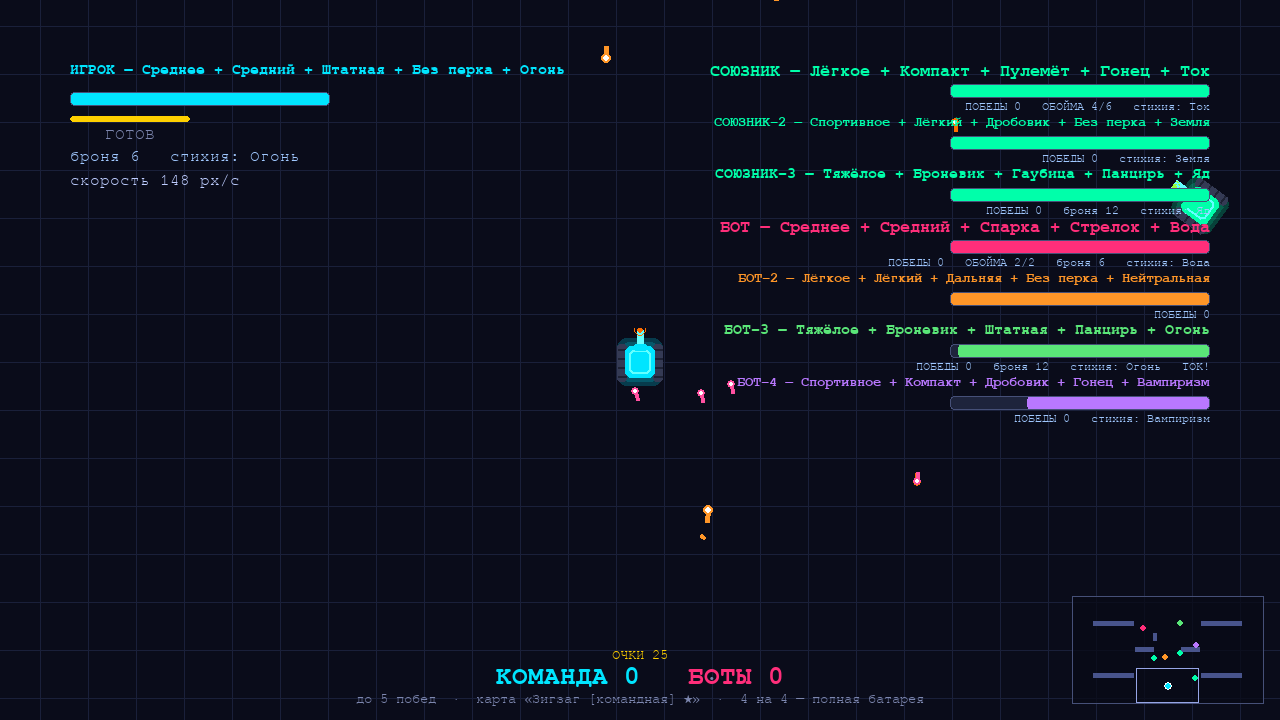
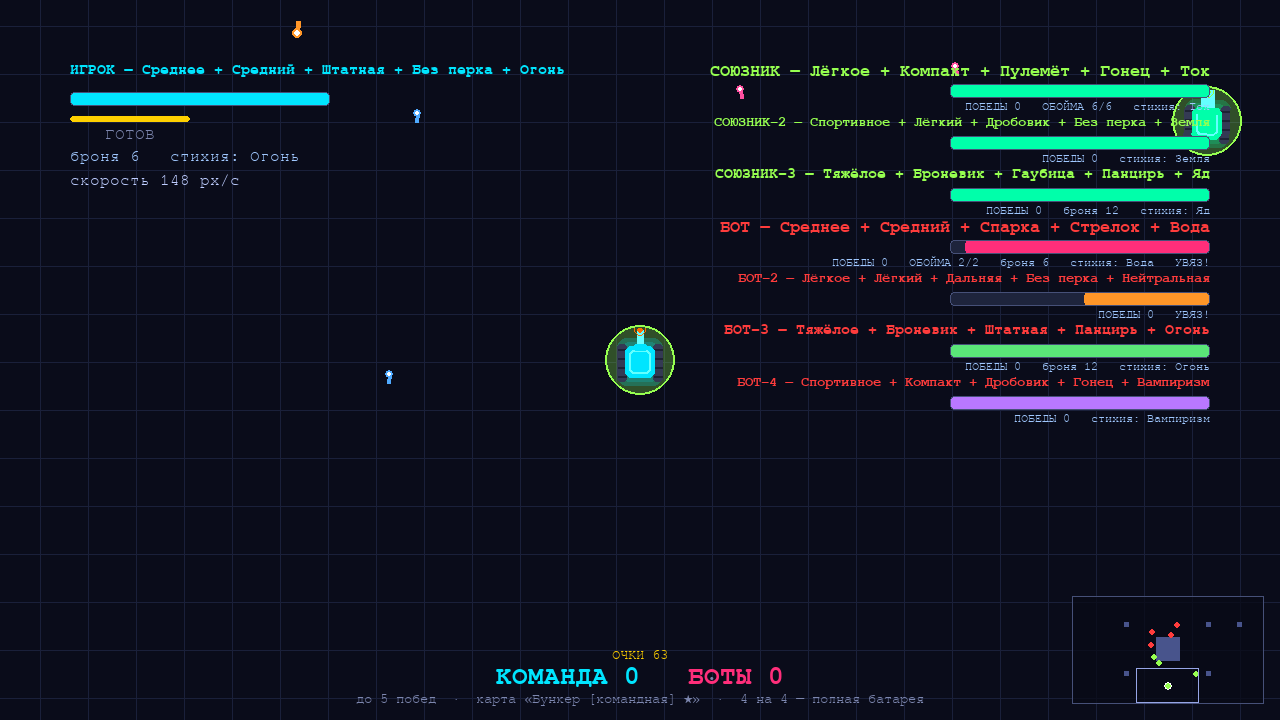
v2.6: ТАЙМЕР ВЫЯСНЕНИЯ 180 СЕКУНД (было 70); КНОПКА «УБИТЬ СРАЗУ» = ЖРЕБИЙ — случайный живой бот сразу забирает раунд, остальные враги взрываются (проверено: за 30 прогонов побеждают все трое); ПОДСВЕТКА КОМАНД в командных боях — враги КРАСНЫМ свечением, союзники (и вы) САЛАТОВЫМ: круг под танком + 

diff --git a/game.py b/game.py
@@ -13,7 +13,7 @@ from settings import (SCREEN_W, SCREEN_H, FPS, TITLE, COL_TEXT, COL_DIM,
                       TANK_RADIUS, BULLET_BOUNCES,
                       SPECTATE_T,
                       ALLY_COLOR, BOSS_COLOR, BOSS_BUILD, BOSS_HP_MULT,
-                      BOSS_SCALE,
+                      BOSS_SCALE, TEAM_FOE_COLOR, TEAM_ALLY_COLOR,
                       BOT_COLORS, BOT_NAMES, MODE_NAMES,
                       BULLET_DAMAGE,
                       POWERUP_INTERVAL, POWERUP_MAX, PU_MINE_DAMAGE,
@@ -772,13 +772,46 @@ class Game:
                           self.arena.h - SCREEN_H)
 
     def _kill_all_foes(self):
-        """Кнопка «УБИТЬ СРАЗУ»: не ждать 70 секунд «выяснения» после вашей
-        смерти — враги дохнут сразу, раунд будет ничьим."""
-        for t in self.foes:
-            if t.alive:
-                t._die(self.effects, self.sounds)
+        """Кнопка «УБИТЬ СРАЗУ» (v2.6): не ждать 180 секунд «выяснения» —
+        ЖРЕБИЙ: случайный живой бот сразу забирает раунд, остальные
+        враги взрываются этим же кадром."""
+        alive = [t for t in self.foes if t.alive]
         self.spectate_t = 0.0
+        if not alive:
+            return
+        lucky = random.choice(alive)
+        for t in alive:
+            if t is not lucky:
+                t._die(self.effects, self.sounds)
         self.sounds.play("explode")
+        # раунд сразу за счастливчиком — как у последнего выжившего
+        self.winner = self.tanks.index(lucky)
+        self.score[self.winner] += 1
+        self.state = "round_end"
+        self.timer = ROUND_PAUSE_T
+        self.sounds.play("round")
+
+    def _team_ring_color(self, t):
+        """v2.6: цвет командной подсветки танка (или None вне команд).
+        Враги — КРАСНЫЙ, союзники (включая вас) — САЛАТОВЫЙ."""
+        if not self.team_mode:
+            return None
+        team = self.tank_team.get(t)
+        if team is None:
+            return None
+        return TEAM_FOE_COLOR if team == 1 else TEAM_ALLY_COLOR
+
+    def _team_pad(self, t):
+        """Светящийся круг под танком (v2.6): враги красным, союзники
+        салатовым. Рисуется ПОД спрайтом, статусы (щит/лёд/огонь) — над."""
+        col = self._team_ring_color(t)
+        if col is None:
+            return None
+        r = int(t.radius + 11)
+        pad = pygame.Surface((r * 2, r * 2), pygame.SRCALPHA)
+        pygame.draw.circle(pad, (col[0], col[1], col[2], 70), (r, r), r)
+        pygame.draw.circle(pad, col, (r, r), r, 2)
+        return pad
 
     # ================= обновление =================
     def update(self, dt):
@@ -1167,6 +1200,11 @@ class Game:
                 b.draw(self.world, ox, oy)
             for t in reversed(self.tanks):   # игрок рисуется поверх ботов
                 if t.alive:
+                    pad = self._team_pad(t)   # v2.6: подсветка команд
+                    if pad is not None:
+                        self.world.blit(
+                            pad, (int(t.x + ox - pad.get_width() / 2),
+                                  int(t.y + oy - pad.get_height() / 2)))
                     t.draw(self.world, ox, oy)
             self.effects.draw(self.world, ox, oy)
             for s in self.smokes:
@@ -1258,7 +1296,7 @@ class Game:
             "Q — стена   E — мина   Лазер + Веер = ЛАЗЕРНЫЙ ВЕЕР!",
             "РЕЖИМЫ: 1вс1 · FFA до 5 · 2НА2 · 3НА3 · 4НА4 · 5НА5 · 2 ПРОТИВ БОССА (F2–F10).",
             "Команды строятся шеренгами. 16 арен, рандом каждый раунд, камера и миникарта.",
-            "После вашей смерти боты до 70 с выясняют победителя — кнопка «УБИТЬ СРАЗУ» не ждёт.",
+            "После вашей смерти боты до 180 с выясняют победителя; кнопка отдаёт раунд случайному боту.",
             "Неуязвимости больше нет. Консоль читера — Ё (`), работает на любой раскладке.",
         ]
         y = 310
@@ -1322,7 +1360,7 @@ class Game:
             "или Enter / T — мышью можно нажать любую кнопку", True, COL_DIM)
         self.screen.blit(img, img.get_rect(center=(SCREEN_W / 2, y + 96)))
         # версия
-        img = get_font(16, bold=False).render("v2.5", True, (60, 66, 95))
+        img = get_font(16, bold=False).render("v2.6", True, (60, 66, 95))
         self.screen.blit(img, (SCREEN_W - 60, SCREEN_H - 34))
 
     # ================= тултипы ангарa =================
@@ -1840,10 +1878,11 @@ class Game:
         pygame.draw.rect(self.screen, color, fill, border_radius=4)
         pygame.draw.rect(self.screen, (70, 80, 120), rect, 1, border_radius=4)
 
-    def _build_label(self, t, who=None):
+    def _build_label(self, t, who=None, color=None):
         """«ИГРОК — шасси + корпус + дуло + перк + стихия» с автоподбором
         размера шрифта: длинная сборка не должна налезать на центральный счёт.
-        Имя можно не передавать — возьмём display_name (СОЮЗНИК, БОСС)."""
+        Имя можно не передавать — возьмём display_name (СОЮЗНИК, БОСС).
+        color (v2.6) перекрашивает строку (командная подсветка HUD)."""
         who = who or t.display_name or "БОТ"
         label = "%s — %s + %s + %s + %s + %s" % (
             who, t.chassis["name"], t.hull["name"], t.weapon["name"],
@@ -1851,7 +1890,7 @@ class Game:
         size = 22
         while size > 13 and get_font(size).size(label)[0] > 500:
             size -= 1
-        return get_font(size).render(label, True, t.color)
+        return get_font(size).render(label, True, color or t.color)
 
     def _status_tags(self, t):
         """Статусы танка строкой (общие для HUD игрока и строк ботов)."""
@@ -1974,7 +2013,9 @@ class Game:
         """Компактная строка танка в HUD (v2.1): имя, HP, победы и статусы.
         v2.2: имя берём из display_name (СОЮЗНИК / БОСС), победы в командах
         считаются по стороне."""
-        img = self._build_label(t, t.display_name or BOT_NAMES[idx])
+        # v2.6: в командах строка танка красится цветом стороны
+        img = self._build_label(t, t.display_name or BOT_NAMES[idx],
+                                color=self._team_ring_color(t))
         self.screen.blit(img, img.get_rect(topright=(SCREEN_W - 70, y)))
         self._hp_bar(SCREEN_W - 330, y + 22, t, right=True)
         tags = self._status_tags(t)
@@ -2045,7 +2086,9 @@ class Game:
             if not t.alive:
                 continue
             cx, cy = int(x0 + t.x * k), int(y0 + t.y * k)
-            pygame.draw.circle(self.screen, t.color, (cx, cy), 3)
+            # v2.6: в командах миникарта красит точки цветом команды
+            col = self._team_ring_color(t) or t.color
+            pygame.draw.circle(self.screen, col, (cx, cy), 3)
             if t is self.player:
                 pygame.draw.circle(self.screen, (255, 255, 255), (cx, cy), 4, 1)
         pygame.draw.rect(self.screen, (150, 165, 230),
@@ -2289,7 +2332,7 @@ class Game:
                 self.spectate_t = float(sec)
                 self._con_say("Окно выяснения после вашей смерти: %d с." % sec)
             else:
-                self._con_say("Формат: ждать 70 / ждать 0")
+                self._con_say("Формат: ждать 180 / ждать 0")
             return
         if parts[0] == "счет":   # ё нормализована в е выше
             if len(parts) > 1 and parts[1].lstrip("-").isdigit():

diff --git a/scripts/smoke_test.py b/scripts/smoke_test.py
@@ -1225,11 +1225,12 @@ def test_map_shuffle():
     check("классические спавны не перекрыты (40 карт)", blocked == 0)
 
 
-# ---------- 3q. ПОСЛЕ СМЕРТИ ИГРОКА v2.5: окно выяснения вместо грейса ----------
+# ---------- 3q. ПОСЛЕ СМЕРТИ ИГРОКА v2.6: окно 180 с + жребий кнопки ----------
 def test_spectate():
-    """v2.5: НЕУЯЗВИМОСТИ НЕТ. После смерти игрока живые боты (2+) в FFA
-    выясняют победителя SPECTATE_T секунд, потом умирают — ничья.
-    Один бот берёт раунд сразу. Кнопка «УБИТЬ СРАЗУ» — не ждать."""
+    """v2.6 (окно было 70 с — стало 180): НЕУЯЗВИМОСТИ НЕТ. После смерти
+    игрока живые боты (2+) в FFA выясняют победителя SPECTATE_T секунд,
+    потом умирают — ничья. Один бот берёт раунд сразу. Кнопка
+    «УБИТЬ СРАЗУ» — ЖРЕБИЙ: случайный живой бот забирает раунд."""
     from game import Game
     from settings import SPECTATE_T
 
@@ -1271,7 +1272,7 @@ def test_spectate():
     check("1вс1: бот-одиночка берёт раунд сразу после смерти игрока",
           g1.state == "round_end" and g1.winner == 1 and g1.score[1] == 1)
 
-    # --- FFA на 3: игрок умер при двух живых ботах — стартует окно 70 с
+    # --- FFA на 3: игрок умер при двух живых ботах — стартует окно 180 с
     g2 = Game()
     g2.mode = 3
     g2._reset_round()
@@ -1290,7 +1291,7 @@ def test_spectate():
     g2.draw()
     check("кнопка «УБИТЬ СРАЗУ» видна во время выяснения",
           bool([r for r, kd, d in g2._click_zones if kd == "kill_all"]))
-    # 70 секунд никто не победил — ВСЕ боты умирают, раунд ничья
+    # 180 секунд никто не победил — ВСЕ боты умирают, раунд ничья
     for _ in range(int(SPECTATE_T * 60) + 2):
         g2.update(1 / 60.0)
         if g2.state == "round_end":
@@ -1313,7 +1314,8 @@ def test_spectate():
     check("победа в выяснении уходит победившему боту",
           g3.state == "round_end" and g3.winner == 1 and g3.score[1] == 1)
 
-    # --- кнопка «УБИТЬ СРАЗУ» во время окна: боты мертвы сразу, ничья
+    # --- кнопка «УБИТЬ СРАЗУ» во время окна (v2.6): ЖРЕБИЙ — случайный
+    # живой бот сразу забирает раунд, остальные враги взрываются
     g4 = Game()
     g4.mode = 4
     g4._reset_round()
@@ -1325,9 +1327,28 @@ def test_spectate():
     check("в 1x1x1x1 окно тоже запустилось", g4.spectate_t == SPECTATE_T)
     g4._kill_all_foes()
     g4.update(1 / 60.0)
-    check("«УБИТЬ СРАЗУ» — боты мертвы, раунд ничья",
-          g4.state == "round_end" and g4.winner == -1
-          and not any(b.alive for b in g4.bots))
+    alive4 = [b for b in g4.bots if b.alive]
+    check("«УБИТЬ СРАЗУ» — жребий: один живой бот забрал раунд",
+          g4.state == "round_end" and len(alive4) == 1
+          and g4.winner == g4.tanks.index(alive4[0])
+          and g4.score[g4.winner] == 1 and g4.spectate_t == 0.0)
+
+    # --- жребий действительно СЛУЧАЙНЫЙ: за серию прогонов победителем
+    # бывают разные боты (30 бросков кубка на 3 стороны)
+    winners = set()
+    for _ in range(30):
+        gx = Game()
+        gx.mode = 4
+        gx._reset_round()
+        gx.state = "fight"
+        gx._fake_keys = FakeKeys(())
+        gx.player.alive = False
+        gx.player._die(fx, snd)
+        gx.update(1 / 60.0)
+        gx._kill_all_foes()
+        winners.add(gx.winner)
+    check("жребий кнопки выбирает разных ботов", len(winners) >= 2,
+          "(вариантов за 30 прогонов: %d)" % len(winners))
 
     # --- команда: окно НЕ запускается (союзники доигрывают за нас)
     g5 = Game()
@@ -1421,8 +1442,8 @@ def test_console():
     check("«хп 50 Игрок» выставляет прочность", p.hp == 50)
     g._con_execute("счёт 500")
     check("«счёт 500» накидывает очков", g.points == 500)
-    g._con_execute("ждать 70")
-    check("«ждать 70» ставит окно выяснения", g.spectate_t == 70)
+    g._con_execute("ждать 180")
+    check("«ждать 180» ставит окно выяснения", g.spectate_t == 180)
     g._con_execute("ждать 0")
     check("«ждать 0» снимает окно", g.spectate_t == 0)
 
@@ -1455,6 +1476,55 @@ def test_console():
     # регулятор консоли: неизвестное слово не роняет игру
     g2._con_execute("абракадабра 123")
     check("неизвестная команда не роняет игру", True)
+
+
+# ---------- 3s2. ПОДСВЕТКА КОМАНД v2.6: враги красным, союзники салатовым ----------
+def test_team_highlight():
+    """v2.6: в командных боях у каждого танка есть цвет стороны — враги
+    КРАСНЫЕ, союзники (включая игрока) САЛАТОВЫЕ: свечение под танком,
+    точки на миникарте и строки в HUD. В FFA подсветки нет."""
+    from game import Game
+    from settings import TEAM_FOE_COLOR, TEAM_ALLY_COLOR, SPECTATE_T
+
+    check("v2.6: окно выяснения = 180 с", SPECTATE_T == 180.0)
+
+    g = Game()
+    g.mode = 3                 # FFA — подсветки быть не должно
+    g._reset_round()
+    check("в FFA подсветки нет",
+          all(g._team_ring_color(t) is None for t in g.tanks)
+          and all(g._team_pad(t) is None for t in g.tanks))
+
+    g2 = Game()
+    g2.mode = 6                # 2 на 2: игрок + СОЮЗНИК против БОТ и БОТ-2
+    g2._reset_round()
+    allies = [t for t in g2.tanks if g2.tank_team[t] == 0]
+    foes = [t for t in g2.tanks if g2.tank_team[t] == 1]
+    check("2на2: составы по два танка", len(allies) == 2 and len(foes) == 2)
+    check("союзники (и игрок) подсвечены САЛАТОВЫМ",
+          all(g2._team_ring_color(t) == TEAM_ALLY_COLOR for t in allies))
+    check("враги подсвечены КРАСНЫМ",
+          all(g2._team_ring_color(t) == TEAM_FOE_COLOR for t in foes))
+    pads = [g2._team_pad(t) for t in g2.tanks]
+    check("свечение под танком — квадратный спрайт с кругом",
+          all(p is not None and p.get_width() == p.get_height() > 0
+              for p in pads))
+    # кадр с подсветкой (мир + миникарта + HUD) рисуется без падений
+    g2.state = "fight"
+    g2._fake_keys = FakeKeys(())
+    g2.draw()
+    check("кадр командного боя с подсветкой рисуется", True)
+
+    # 5 на 5: пятеро салатовых против пятерых красных
+    g3 = Game()
+    g3.mode = 10
+    g3._reset_round()
+    a3 = [t for t in g3.tanks if g3.tank_team[t] == 0]
+    f3 = [t for t in g3.tanks if g3.tank_team[t] == 1]
+    check("5на5: 5 салатовых союзников и 5 красных врагов",
+          len(a3) == 5 and len(f3) == 5
+          and all(g3._team_ring_color(t) == TEAM_ALLY_COLOR for t in a3)
+          and all(g3._team_ring_color(t) == TEAM_FOE_COLOR for t in f3))
 
 
 # ---------- 3s. КОМАНДНЫЕ РЕЖИМЫ v2.2: 2 на 2 и 2 против БОССА ----------
@@ -1853,6 +1923,7 @@ if __name__ == "__main__":
     test_spectate()
     test_console()
     test_team_modes()
+    test_team_highlight()
     test_ice_immunity()
     test_big_teams()
     test_bigmap()

diff --git a/scripts/stress_ffa.py b/scripts/stress_ffa.py
@@ -58,8 +58,9 @@ def play_match(mode, max_sec=240):
 
 if __name__ == "__main__":
     pygame.init()
-    # v2.5: карты ещё крупнее + после смерти игрока боты 70 с выясняют
-    # победителя (зоны-подгонщика больше нет) — раунды длиннее, лимиты выше
+    # v2.6: карты ещё крупнее + после смерти игрока боты 180 с выясняют
+    # победителя (кнопка «УБИТЬ СРАЗУ» отдаёт раунд случайному боту)
+    # — раунды длиннее, лимиты выше
     for m in (3, 4, 5):
         play_match(m, max_sec=1800)
     # командные режимы на больших картах: 2на2, 3на3, 4на4, 5на5 и 2 против БОССА
